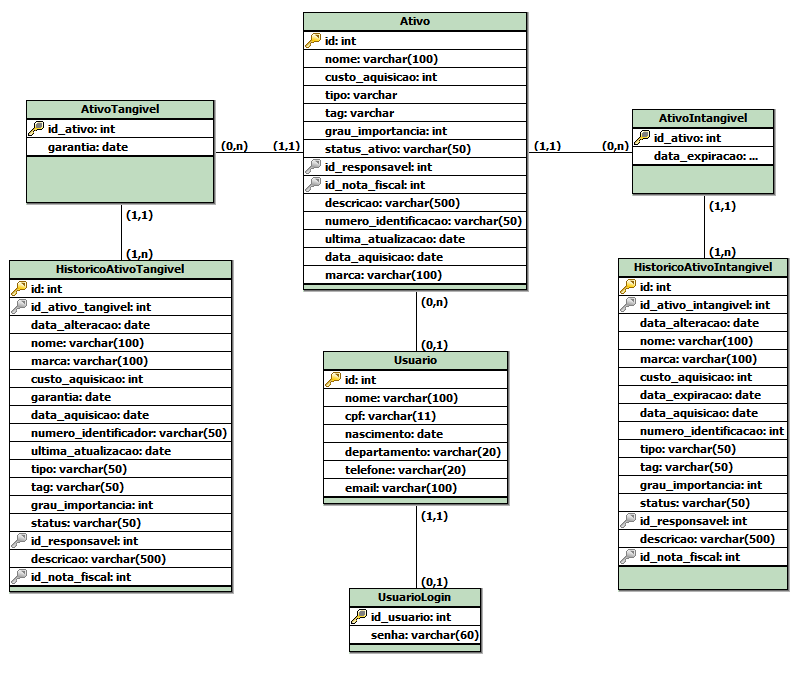
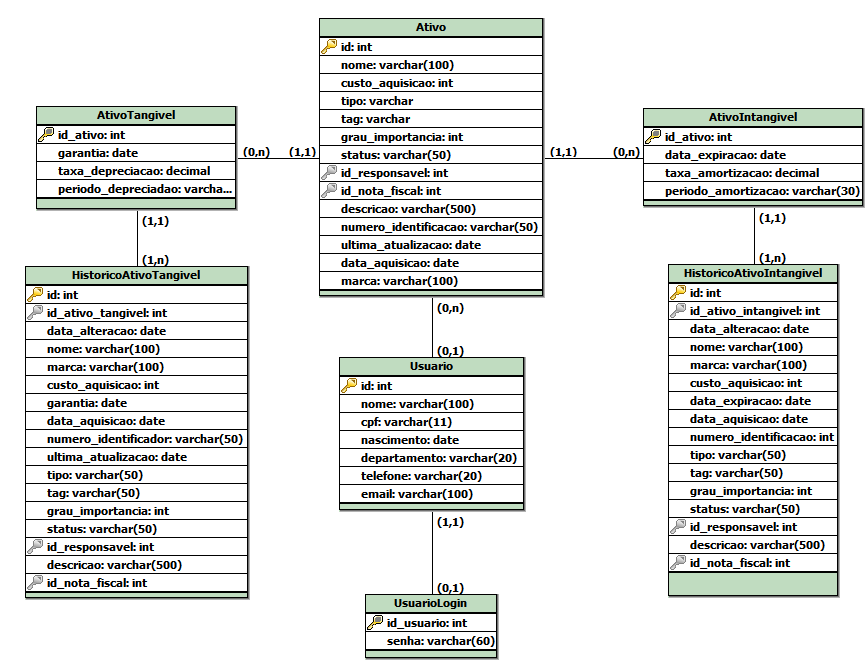
Depreciação e amortização

diff --git a/README.md b/README.md
@@ -44,6 +44,8 @@ Referente ao Banco de Dados da API do terceiro semestre da FATEC
 |:-:|:-:|:-:|:-:|:-:|:-:|
 | id_ativo | INT | Default | PK, FK, NOT NULL | N/A | Número de identificação do ativo |
 | garantia | DATE | Default | N/A | N/A | Data de expiração da garantia do ativo |
+| taxa_depreciacao | DECIMAL | Default | N/A | N/A | Taxa de depreciação no período |
+| periodo_depreciacao | VARCHAR | 30 | N/A | N/A | Período em que ocorre a depreciação |
 
 </details>
 
@@ -54,6 +56,8 @@ Referente ao Banco de Dados da API do terceiro semestre da FATEC
 |:-:|:-:|:-:|:-:|:-:|:-:|
 | id_ativo | INT | Default | PK, FK, NOT NULL | N/A | Número de identificação do ativo |
 | data_expiracao | DATE | Default | N/A | N/A | Data de expiração do ativo |
+| taxa_amortizacao | DECIMAL | Default | N/A | N/A | Taxa de amortização no período |
+| periodo_amortizacao | VARCHAR | 30 | N/A | N/A | Período em que ocorre a amortização |
 
 </details>
 </details>
